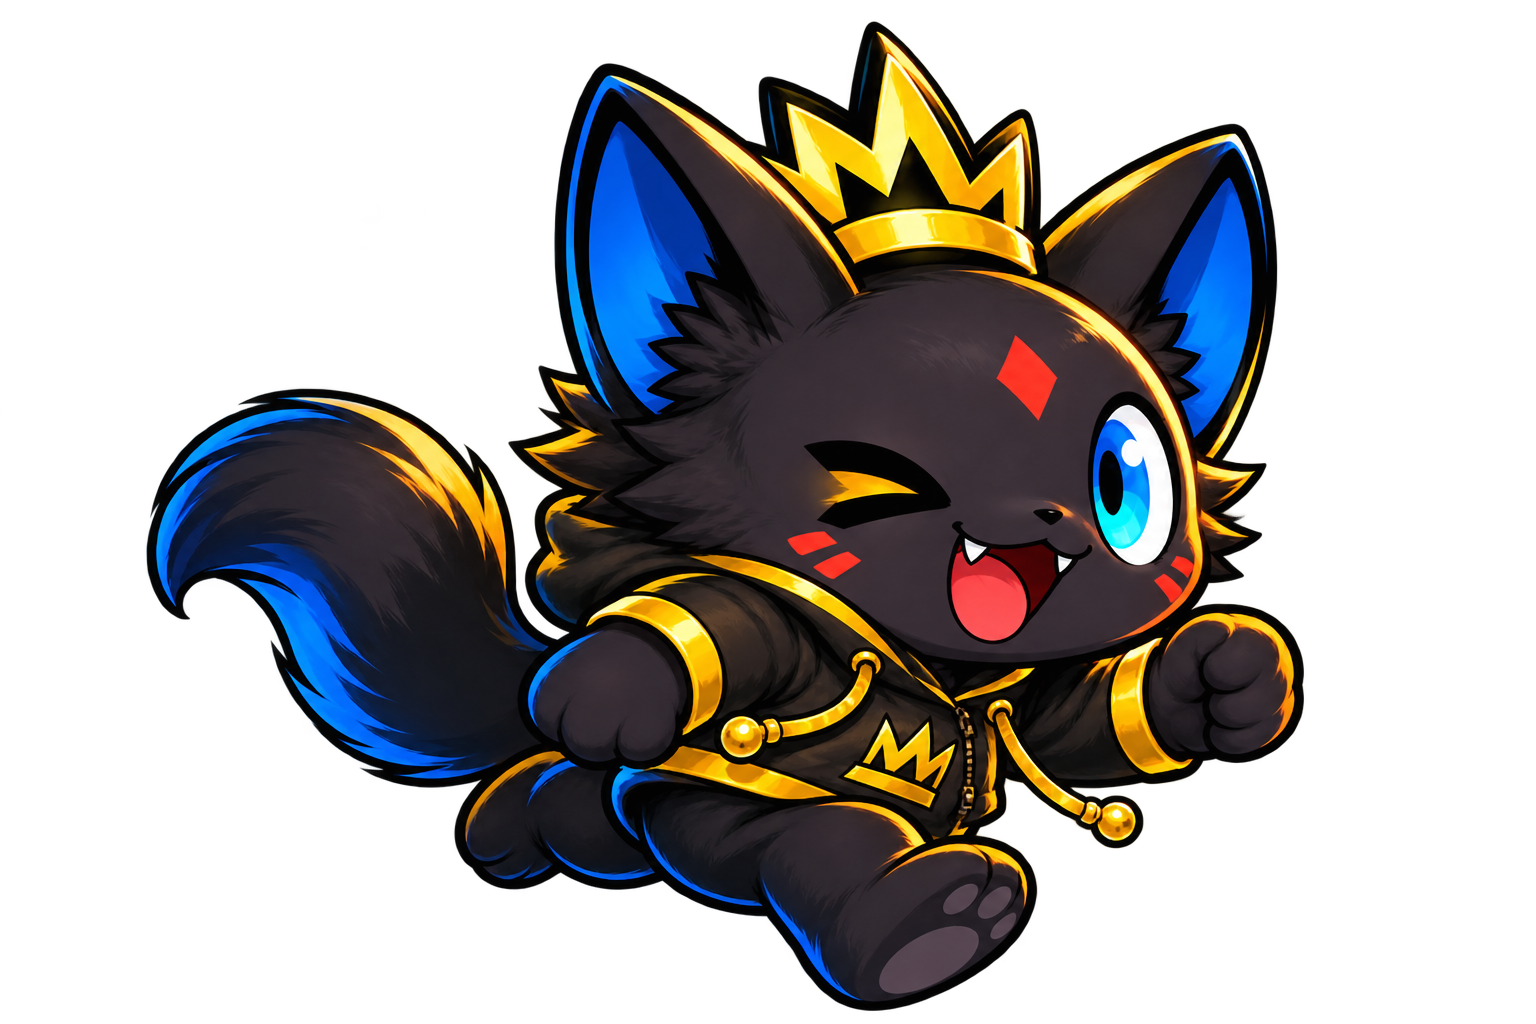
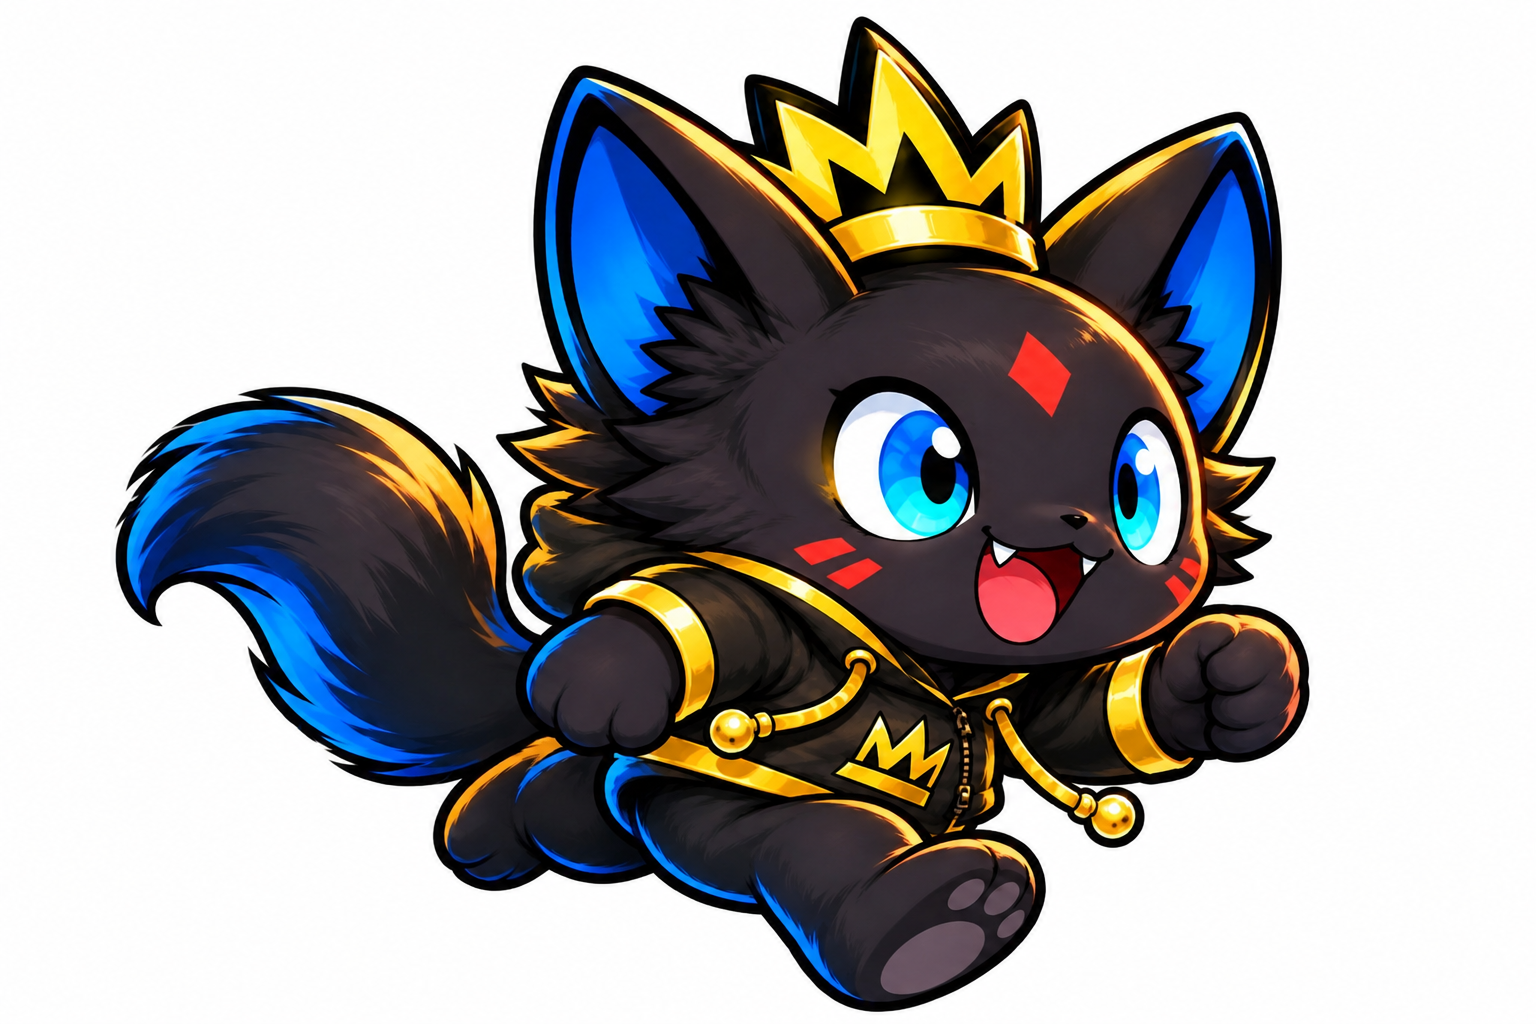
DASH MONZ: new run pose from the planner (white background removed)
Claude-Session: https://claude.ai/code/session_01MXithgTc5umkveoyZShZHQ

Changed region(s): [[0.0625, 0.0, 0.875, 1.0], [0.5312, 0.9375, 0.5625, 0.9688]]

diff --git a/design/minigame/make_dash_assets.py b/design/minigame/make_dash_assets.py
@@ -43,8 +43,8 @@ sp.thumbnail((160, 160), Image.LANCZOS)
 sp.save(os.path.join(OUT, 'dash_spike.webp'), quality=88, method=6)
 print('dash_spike.webp', sp.size)
 
-# 走るモンズ: 走る絵は透明の背景つき(そのまま)、ジャンプの絵は描きこまれたチェック柄を消す
-from cutout import cut_checker  # noqa: E402
+# 走るモンズ: 走る絵は白い背景を消す、ジャンプの絵は描きこまれたチェック柄を消す
+from cutout import cut_checker, cut_white  # noqa: E402
 
 
 def save_pose(im: Image.Image, name: str, width: int) -> None:
@@ -57,7 +57,7 @@ def save_pose(im: Image.Image, name: str, width: int) -> None:
     print(name, (width, h))
 
 
-save_pose(Image.open(os.path.join(HERE, 'dash_run.png')).convert('RGBA'), 'dash_run.webp', 360)
+save_pose(cut_white(os.path.join(HERE, 'dash_run.png')), 'dash_run.webp', 360)
 save_pose(cut_checker(os.path.join(HERE, 'dash_jump.png')), 'dash_jump.webp', 300)
 
 # ロゴ: もともと背景が透明。透明の所を切りつめて縮小するだけ

diff --git a/design/minigame/cutout.py b/design/minigame/cutout.py
@@ -35,3 +35,17 @@ def cut_checker(path: str) -> Image.Image:
     out = im.convert('RGBA')
     out.putalpha(alpha)
     return out.crop(out.getchannel('A').point(lambda v: 255 if v > 20 else 0).getbbox())
+
+
+def cut_white(path: str) -> Image.Image:
+    """ふちからつながっている白い背景だけを透明にする(目の白など、線に囲まれた白は残す)"""
+    im = Image.open(path).convert('RGB')
+    a = np.asarray(im).astype(int)
+    bg = (a.min(2) > 225) & (a.max(2) - a.min(2) < 30)
+    labels, _ = ndimage.label(bg)
+    border = set(np.unique(np.concatenate([labels[0], labels[-1], labels[:, 0], labels[:, -1]]))) - {0}
+    keep = ~np.isin(labels, list(border))
+    alpha = Image.fromarray(np.where(keep, 255, 0).astype(np.uint8)).filter(ImageFilter.GaussianBlur(0.8))
+    out = im.convert('RGBA')
+    out.putalpha(alpha)
+    return out
